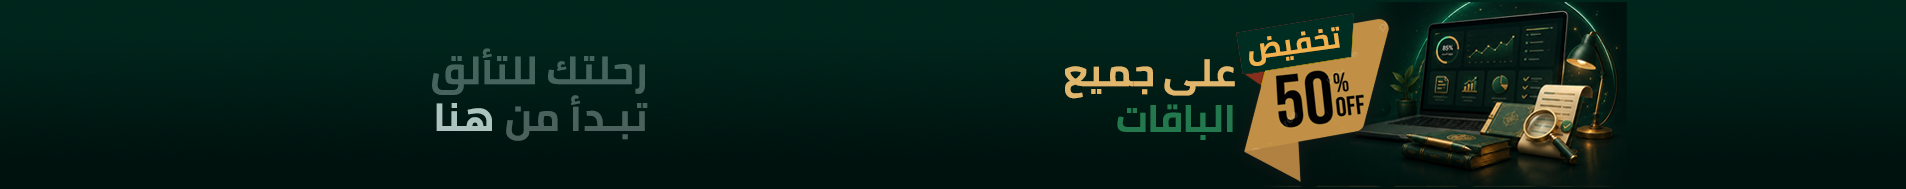
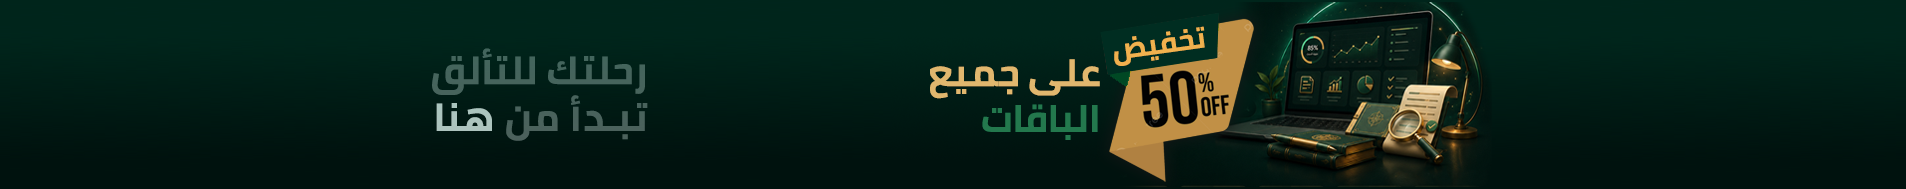
تحديث

Changed region(s): [[0.4643, 0.0, 0.8667, 0.9524], [0.7739, 0.9788, 0.8048, 1.0], [0.6191, 0.9788, 0.6501, 1.0]]

diff --git a/css/style.css b/css/style.css
@@ -40,3 +40,81 @@
 @media(max-width:420px){
   .brand-mark{width:38px!important;height:38px!important;min-width:38px!important}
 }
+
+
+/* Final polish v2026-07-01-banner-logo-search-fast: visible right logo, aligned search, responsive animated banner, faster mobile interaction */
+:root{--banner-h:clamp(82px,9.9vw,189px)}
+.topbar .shell{width:var(--shell)!important;margin-inline:auto!important;overflow:visible!important}
+.brand{padding-inline-start:clamp(8px,1.1vw,16px)!important;overflow:visible!important;max-width:100%!important}
+.brand-mark{
+  margin-inline-start:clamp(6px,1vw,14px)!important;
+  margin-inline-end:0!important;
+  transform:translateX(-6px)!important;
+  overflow:visible!important;
+  background-size:contain!important;
+  background-repeat:no-repeat!important;
+  background-position:center!important;
+}
+.discount-wrap{width:var(--shell)!important;margin:8px auto 8px!important;padding:0!important;contain:layout paint style!important}
+.discount-banner{
+  width:100%!important;
+  height:var(--banner-h)!important;
+  min-height:var(--banner-h)!important;
+  border-radius:18px!important;
+  overflow:hidden!important;
+  display:block!important;
+  background:#002d22!important;
+  box-shadow:0 16px 42px rgba(0,0,0,.26),0 0 0 1px rgba(201,161,91,.24),0 0 42px rgba(47,176,109,.16),inset 0 0 36px rgba(240,217,140,.07)!important;
+  transform:translateZ(0)!important;
+}
+.discount-banner img{
+  width:100%!important;
+  height:100%!important;
+  min-height:100%!important;
+  object-fit:cover!important;
+  object-position:center!important;
+  display:block!important;
+  filter:saturate(1.12) contrast(1.06) brightness(1.035)!important;
+  transform-origin:center!important;
+  animation:finalBannerFloat 7s ease-in-out infinite!important;
+  will-change:transform!important;
+}
+.discount-banner:before{
+  background:radial-gradient(circle at 80% 42%,rgba(72,255,181,.30),transparent 22%),radial-gradient(circle at 62% 50%,rgba(242,212,138,.21),transparent 20%),radial-gradient(circle at 31% 50%,rgba(72,255,181,.105),transparent 25%)!important;
+  opacity:.74!important;
+  animation:finalBannerHalo 5.6s ease-in-out infinite alternate!important;
+  will-change:opacity,transform!important;
+}
+.discount-banner:after{
+  width:30%!important;right:-34%!important;left:auto!important;
+  background:linear-gradient(105deg,transparent 0%,rgba(255,236,170,.08) 28%,rgba(255,236,170,.25) 50%,rgba(62,255,169,.13) 60%,transparent 79%)!important;
+  filter:none!important;opacity:.32!important;
+  animation:finalBannerShine 7.2s ease-in-out infinite!important;
+  will-change:transform,opacity!important;
+}
+.discount-banner .fx-a{height:2px!important;background:linear-gradient(90deg,transparent,rgba(242,212,138,.94),rgba(47,176,109,.66),transparent)!important;animation:finalBannerLine 4.2s ease-in-out infinite alternate!important}
+.discount-banner .fx-b{background:linear-gradient(180deg,rgba(255,255,255,.052),transparent 45%,rgba(0,0,0,.105))!important;animation:finalBannerBreath 5.8s ease-in-out infinite alternate!important}
+.discount-banner .fx-c{position:absolute;inset:0;pointer-events:none;z-index:3;background:radial-gradient(circle at 70% 45%,rgba(240,217,140,.16),transparent 18%),radial-gradient(circle at 85% 35%,rgba(70,255,175,.15),transparent 13%);mix-blend-mode:screen;opacity:.46;animation:finalBannerSpark 5.4s ease-in-out infinite alternate!important;will-change:opacity,transform!important}
+.toolbar.shell{width:var(--shell)!important;margin:8px auto 14px!important;padding:0!important;display:flex!important;align-items:center!important;box-sizing:border-box!important}
+.search{width:100%!important;max-width:100%!important;margin:0!important;display:block!important;box-sizing:border-box!important}
+.modal.open,.assistant-panel.open{animation:fastOpen .12s ease-out both}
+.modal-close,.float-btn,.nav a,.btn{touch-action:manipulation}
+@keyframes finalBannerFloat{0%,100%{transform:scale(1) translate3d(0,0,0)}50%{transform:scale(1.008) translate3d(0,-1px,0)}}
+@keyframes finalBannerHalo{0%{opacity:.56;transform:translate3d(-1.1%,0,0) scale(1)}100%{opacity:.88;transform:translate3d(1.1%,0,0) scale(1.01)}}
+@keyframes finalBannerShine{0%,26%{transform:translate3d(0,0,0);opacity:.04}58%{transform:translate3d(-330%,0,0);opacity:.36}100%{transform:translate3d(-330%,0,0);opacity:.05}}
+@keyframes finalBannerLine{0%{opacity:.44;transform:scaleX(.76)}100%{opacity:.94;transform:scaleX(1)}}
+@keyframes finalBannerBreath{0%{opacity:.46}100%{opacity:.78}}
+@keyframes finalBannerSpark{0%{opacity:.30;transform:translate3d(-.7%,0,0) scale(.996)}100%{opacity:.62;transform:translate3d(.7%,-.35%,0) scale(1.006)}}
+@keyframes fastOpen{from{opacity:.82;transform:translateY(2px)}to{opacity:1;transform:none}}
+@media(max-width:980px){:root{--banner-h:clamp(82px,16.5vw,150px)}.brand-mark{transform:translateX(-8px)!important}.discount-banner img{object-position:center!important}}
+@media(max-width:620px){
+  :root{--shell:min(100% - 20px,1180px);--banner-h:clamp(76px,23vw,118px)}
+  .topbar .shell{padding-inline:0!important}
+  .brand{padding-inline-start:14px!important}
+  .brand-mark{transform:translateX(-10px)!important;margin-inline-start:8px!important}
+  .discount-wrap{margin:7px auto 7px!important}
+  .discount-banner{border-radius:14px!important}
+  .discount-banner img{object-position:58% center!important}
+  .toolbar.shell{margin:7px auto 12px!important}
+}
+@media(max-width:420px){:root{--banner-h:clamp(72px,25vw,104px)}.brand{padding-inline-start:16px!important}.brand-mark{transform:translateX(-12px)!important}.discount-banner img{object-position:62% center!important}}

diff --git a/bots.html b/bots.html
@@ -21,7 +21,7 @@
   <link rel="apple-touch-icon" href="images/whatsapp-thumbnail.png">
   <title>البوتات | بوابة النماذج الذكية</title>
   <link rel="preload" as="image" href="images/discount-80-banner.png">
-  <link rel="stylesheet" href="css/style.css?v=2026-07-01-logo-icon-right">
+  <link rel="stylesheet" href="css/style.css?v=2026-07-01-banner-logo-search-fast">
 </head>
 <body data-page="public-bots">
   <a class="skip-link" href="#app">تجاوز إلى المحتوى</a>
@@ -41,10 +41,10 @@
   <main id="app" tabindex="-1"></main>
   <div id="modal" class="modal" aria-hidden="true"></div>
   <footer class="footer"><div class="shell">بوابة خفيفة ومتجاوبة: الباقات ← التصنيفات ← البوتات.</div></footer>
-  <script>window.__DATA_VERSION__="2026-07-01-logo-icon-right";</script>
-  <script defer src="data/research-dynamic-data.js?v=2026-07-01-logo-icon-right"></script>
-  <script defer src="js/data-service.js?v=2026-07-01-logo-icon-right"></script>
-  <script defer src="js/section-covers-templates-patch-v12.js?v=2026-07-01-logo-icon-right"></script>
-  <script defer src="js/app.js?v=2026-07-01-logo-icon-right"></script>
+  <script>window.__DATA_VERSION__="2026-07-01-banner-logo-search-fast";</script>
+  <script defer src="data/research-dynamic-data.js?v=2026-07-01-banner-logo-search-fast"></script>
+  <script defer src="js/data-service.js?v=2026-07-01-banner-logo-search-fast"></script>
+  <script defer src="js/section-covers-templates-patch-v12.js?v=2026-07-01-banner-logo-search-fast"></script>
+  <script defer src="js/app.js?v=2026-07-01-banner-logo-search-fast"></script>
 </body>
 </html>

diff --git a/index.html b/index.html
@@ -21,7 +21,7 @@
   <link rel="apple-touch-icon" href="images/whatsapp-thumbnail.png">
   <title>بوابة النماذج الذكية</title>
   <link rel="preload" as="image" href="images/discount-80-banner.png">
-  <link rel="stylesheet" href="css/style.css?v=2026-07-01-logo-icon-right">
+  <link rel="stylesheet" href="css/style.css?v=2026-07-01-banner-logo-search-fast">
 </head>
 <body data-page="public-home">
   <a class="skip-link" href="#app">تجاوز إلى المحتوى</a>
@@ -41,10 +41,10 @@
   <main id="app" tabindex="-1"></main>
   <div id="modal" class="modal" aria-hidden="true"></div>
   <footer class="footer"><div class="shell">بوابة خفيفة ومتجاوبة: الباقات ← التصنيفات ← البوتات.</div></footer>
-  <script>window.__DATA_VERSION__="2026-07-01-logo-icon-right";</script>
-  <script defer src="data/research-dynamic-data.js?v=2026-07-01-logo-icon-right"></script>
-  <script defer src="js/data-service.js?v=2026-07-01-logo-icon-right"></script>
-  <script defer src="js/section-covers-templates-patch-v12.js?v=2026-07-01-logo-icon-right"></script>
-  <script defer src="js/app.js?v=2026-07-01-logo-icon-right"></script>
+  <script>window.__DATA_VERSION__="2026-07-01-banner-logo-search-fast";</script>
+  <script defer src="data/research-dynamic-data.js?v=2026-07-01-banner-logo-search-fast"></script>
+  <script defer src="js/data-service.js?v=2026-07-01-banner-logo-search-fast"></script>
+  <script defer src="js/section-covers-templates-patch-v12.js?v=2026-07-01-banner-logo-search-fast"></script>
+  <script defer src="js/app.js?v=2026-07-01-banner-logo-search-fast"></script>
 </body>
 </html>

diff --git a/package.html b/package.html
@@ -21,7 +21,7 @@
   <link rel="apple-touch-icon" href="images/whatsapp-thumbnail.png">
   <title>التصنيفات | بوابة النماذج الذكية</title>
   <link rel="preload" as="image" href="images/discount-80-banner.png">
-  <link rel="stylesheet" href="css/style.css?v=2026-07-01-logo-icon-right">
+  <link rel="stylesheet" href="css/style.css?v=2026-07-01-banner-logo-search-fast">
 </head>
 <body data-page="public-sections">
   <a class="skip-link" href="#app">تجاوز إلى المحتوى</a>
@@ -41,10 +41,10 @@
   <main id="app" tabindex="-1"></main>
   <div id="modal" class="modal" aria-hidden="true"></div>
   <footer class="footer"><div class="shell">بوابة خفيفة ومتجاوبة: الباقات ← التصنيفات ← البوتات.</div></footer>
-  <script>window.__DATA_VERSION__="2026-07-01-logo-icon-right";</script>
-  <script defer src="data/research-dynamic-data.js?v=2026-07-01-logo-icon-right"></script>
-  <script defer src="js/data-service.js?v=2026-07-01-logo-icon-right"></script>
-  <script defer src="js/section-covers-templates-patch-v12.js?v=2026-07-01-logo-icon-right"></script>
-  <script defer src="js/app.js?v=2026-07-01-logo-icon-right"></script>
+  <script>window.__DATA_VERSION__="2026-07-01-banner-logo-search-fast";</script>
+  <script defer src="data/research-dynamic-data.js?v=2026-07-01-banner-logo-search-fast"></script>
+  <script defer src="js/data-service.js?v=2026-07-01-banner-logo-search-fast"></script>
+  <script defer src="js/section-covers-templates-patch-v12.js?v=2026-07-01-banner-logo-search-fast"></script>
+  <script defer src="js/app.js?v=2026-07-01-banner-logo-search-fast"></script>
 </body>
 </html>

diff --git a/js/app.js b/js/app.js
@@ -11,13 +11,14 @@ function cardPackage(p){const c=el('article','card package-card'); c.appendChild
 function cardSection(s,p){const c=el('article','card section-card'); c.appendChild(img(s.image,s.title,true)); const b=el('div','card-body'); b.append(el('h3','',s.title),el('p','',s.description||'')); const footer=el('div','card-footer'); const actions=el('div','card-actions'); actions.appendChild(linkBtn('الدخول للبوتات','bots.html?package='+encodeURIComponent(p.id)+'&section='+encodeURIComponent(s.id),true)); const chips=el('div','stats'); chips.append(chip(((s.bots||[]).length)+' بوتًا')); footer.append(actions,chips); b.appendChild(footer); c.appendChild(b); return c}
 function cardBot(b){const c=el('article','card bot-card'); c.appendChild(img(b.image,b.title,true)); const body=el('div','card-body'); body.append(el('h3','',b.title),el('p','',b.description||'')); const footer=el('div','card-footer'); const actions=el('div','card-actions'); actions.appendChild(linkBtn('الوصف','#',false)); if(b.chatgpt) actions.appendChild(linkBtn('ChatGPT',D.safeUrl(b.chatgpt),true)); if(b.gemini) actions.appendChild(linkBtn('Gemini',D.safeUrl(b.gemini),false)); actions.querySelector('a[href="#"]').addEventListener('click',e=>{e.preventDefault(); modal(b.title,b.description,b.limits,b.example)}); footer.appendChild(actions); body.appendChild(footer); c.appendChild(body); return c}
 function grid(items,renderer){const g=el('section','grid shell'); if(!items.length){g.className='shell'; g.appendChild(el('div','empty','لا توجد عناصر مطابقة.')); return g} items.forEach(x=>g.appendChild(renderer(x))); return g}
-function toolbar(onInput){const t=el('div','toolbar shell'); const input=el('input','search'); input.type='search'; input.placeholder='ابحث هنا...'; input.autocomplete='off'; input.addEventListener('input',()=>onInput(input.value)); t.appendChild(input); return t}
+function toolbar(onInput){const t=el('div','toolbar shell'); const input=el('input','search'); input.type='search'; input.placeholder='ابحث هنا...'; input.autocomplete='off'; let raf=0; input.addEventListener('input',()=>{cancelAnimationFrame(raf); raf=requestAnimationFrame(()=>onInput(input.value));}); t.appendChild(input); return t}
 function filter(items,q,get){q=D.norm(q).toLowerCase(); return !q?items:items.filter(x=>D.norm(get(x)).toLowerCase().includes(q))}
 function modal(title,desc,limits,example){const m=$('#modal'); m.textContent=''; const box=el('div','modal-box'); const mh=el('div','modal-head'); mh.append(el('h2','',title),el('button','modal-close','إغلاق')); box.appendChild(mh); if(desc)box.appendChild(el('p','',desc)); if(limits){box.appendChild(el('h3','','الحدود')); box.appendChild(el('p','',limits))} if(example){box.appendChild(el('h3','','مثال')); box.appendChild(el('p','',example))} mh.querySelector('button').addEventListener('click',()=>m.classList.remove('open')); m.appendChild(box); m.classList.add('open')}
 function pageHome(app){app.append(banner(),head('الباقات','اختر الباقة المطلوبة، ثم ادخل إلى تصنيفاتها، وبعدها اختر التصنيف للوصول إلى البوتات التابعة له.')); let items=D.packages(); const holder=el('div'); const render=q=>{holder.textContent=''; holder.appendChild(grid(filter(items,q,p=>p.title+' '+p.description),cardPackage))}; app.append(toolbar(render),holder); render('')}
 function pageSections(app){const p=D.findPackage(); app.append(banner(),head('التصنيفات',p?'اختر التصنيف المناسب من '+p.title+' للوصول إلى البوتات التابعة له.':'اختر التصنيف للوصول إلى البوتات التابعة له.')); let items=p?(p.sections||[]):[]; const holder=el('div'); const render=q=>{holder.textContent=''; holder.appendChild(grid(filter(items,q,s=>s.title+' '+s.description),s=>cardSection(s,p)))}; app.append(toolbar(render),holder); render('')}
 function pageBots(app){const found=D.findSection(); const sec=found&&found.section; app.append(banner(),head('البوتات',sec?'البوتات التابعة لتصنيف: '+sec.title:'اختر البوت المناسب وافتح وصفه أو رابط تشغيله.')); let items=sec?(sec.bots||[]):D.botItems().map(x=>x.bot); const holder=el('div'); const render=q=>{holder.textContent=''; holder.appendChild(grid(filter(items,q,b=>b.title+' '+b.description),cardBot))}; app.append(toolbar(render),holder); render('')}
 function floating(){if($('.float-stack'))return; const stack=el('div','float-stack'); const ai=el('button','float-btn secondary','المساعد الذكي'); ai.type='button'; const wa=el('a','float-btn','الدعم المباشر'); wa.href='https://wa.me/966552191598'; wa.target='_blank'; wa.rel='noopener noreferrer'; stack.append(ai,wa); document.body.appendChild(stack); const panel=el('section','assistant-panel'); const close=el('button','modal-close','×'); const title=el('h3','','المساعد الذكي'); const p=el('p','','اكتب اسم البوت أو التصنيف للبحث السريع داخل البوابة.'); const input=el('input'); input.type='search'; input.placeholder='مثال: خطة البحث، الترجمة، التحليل'; const res=el('div','assistant-results'); panel.append(close,title,p,input,res); document.body.appendChild(panel); function run(q){res.textContent=''; const arr=D.botItems().filter(x=>D.norm(x.bot.title+' '+x.bot.description+' '+x.section.title).includes(D.norm(q))).slice(0,6); if(!q){res.appendChild(el('div','assistant-card','ابدأ بكتابة كلمة للبحث.')); return} arr.forEach(x=>{const c=el('div','assistant-card'); c.append(el('b','',x.bot.title),el('span','',x.section.title)); if(x.bot.chatgpt)c.appendChild(linkBtn('فتح ChatGPT',D.safeUrl(x.bot.chatgpt),false)); res.appendChild(c)}); if(q&&!arr.length)res.appendChild(el('div','assistant-card','لا توجد نتيجة مطابقة.'))} ai.addEventListener('click',()=>{panel.classList.toggle('open'); if(panel.classList.contains('open')){input.focus(); run(input.value)}}); close.addEventListener('click',()=>panel.classList.remove('open')); input.addEventListener('input',()=>run(input.value))}
-function boot(){const app=$('#app'); if(!app)return; app.textContent=''; const page=document.body.dataset.page; if(page==='public-sections')pageSections(app); else if(page==='public-bots')pageBots(app); else pageHome(app); floating(); const modalEl=$('#modal'); if(modalEl)modalEl.addEventListener('click',e=>{if(e.target===modalEl)modalEl.classList.remove('open')});}
+function bindGlobalClose(){document.addEventListener('keydown',e=>{if(e.key==='Escape'){const m=$('#modal'); if(m)m.classList.remove('open'); const p=$('.assistant-panel'); if(p)p.classList.remove('open')}})}
+function boot(){const app=$('#app'); if(!app)return; app.textContent=''; const page=document.body.dataset.page; if(page==='public-sections')pageSections(app); else if(page==='public-bots')pageBots(app); else pageHome(app); floating(); bindGlobalClose(); const modalEl=$('#modal'); if(modalEl)modalEl.addEventListener('click',e=>{if(e.target===modalEl)modalEl.classList.remove('open')});}
 if(document.readyState==='loading')document.addEventListener('DOMContentLoaded',boot,{once:true}); else boot();
 })();

diff --git a/admin.html b/admin.html
@@ -10,4 +10,4 @@
   <meta name="twitter:description" content="واجهة عامة للباقات والتصنيفات والبوتات">
   <meta name="twitter:image" content="images/whatsapp-thumbnail.png">
   <link rel="icon" type="image/png" href="images/logo-transparent.png">
-  <link rel="apple-touch-icon" href="images/whatsapp-thumbnail.png"><title>لوحة التحكم | بوابة النماذج الذكية</title><link rel="stylesheet" href="css/style.css?v=2026-07-01-logo-icon-right"></head><body data-page="admin"><header class="topbar"><div class="shell"><a class="brand" href="index.html"><span class="brand-mark"></span><span class="brand-titleline"><h1>لوحة التحكم</h1><p>إدارة الباقات والتصنيفات والبوتات</p></span></a><nav class="nav"><a href="index.html">عرض الواجهة</a><button class="btn" onclick="downloadJSON(window.RESEARCH_DATA)">تصدير JSON</button><button class="btn" onclick="downloadJS(window.RESEARCH_DATA)">تصدير JS</button></nav></div></header><main class="shell page-head"><section class="inline-heading"><h2>لوحة التحكم</h2><span class="sep">|</span><p>فحص سريع للبيانات وتصدير آمن للنسخ الحالية.</p></section><div id="adminControl"></div><section id="editor"></section></main><footer class="footer"><div class="shell">للحفظ الدائم استبدل ملفات البيانات ثم ارفع المشروع كاملًا.</div></footer><script defer src="data/research-dynamic-data.js?v=2026-07-01-logo-icon-right"></script><script defer src="js/data-service.js?v=2026-07-01-logo-icon-right"></script><script defer src="js/admin.js?v=2026-07-01-logo-icon-right"></script></body></html>
+  <link rel="apple-touch-icon" href="images/whatsapp-thumbnail.png"><title>لوحة التحكم | بوابة النماذج الذكية</title><link rel="stylesheet" href="css/style.css?v=2026-07-01-banner-logo-search-fast"></head><body data-page="admin"><header class="topbar"><div class="shell"><a class="brand" href="index.html"><span class="brand-mark"></span><span class="brand-titleline"><h1>لوحة التحكم</h1><p>إدارة الباقات والتصنيفات والبوتات</p></span></a><nav class="nav"><a href="index.html">عرض الواجهة</a><button class="btn" onclick="downloadJSON(window.RESEARCH_DATA)">تصدير JSON</button><button class="btn" onclick="downloadJS(window.RESEARCH_DATA)">تصدير JS</button></nav></div></header><main class="shell page-head"><section class="inline-heading"><h2>لوحة التحكم</h2><span class="sep">|</span><p>فحص سريع للبيانات وتصدير آمن للنسخ الحالية.</p></section><div id="adminControl"></div><section id="editor"></section></main><footer class="footer"><div class="shell">للحفظ الدائم استبدل ملفات البيانات ثم ارفع المشروع كاملًا.</div></footer><script defer src="data/research-dynamic-data.js?v=2026-07-01-banner-logo-search-fast"></script><script defer src="js/data-service.js?v=2026-07-01-banner-logo-search-fast"></script><script defer src="js/admin.js?v=2026-07-01-banner-logo-search-fast"></script></body></html>

diff --git a/site-audit-banner-logo-search-fast.md b/site-audit-banner-logo-search-fast.md
@@ -1,0 +1,18 @@
+# تقرير ضبط البانر والشعار ومحاذاة البحث — 2026-07-01-banner-logo-search-fast
+
+## نطاق العمل
+- اعتماد البانر المرفق بوصفه الصورة الحالية داخل `images/discount-80-banner.png`.
+- تحريك الشعار في الترويسة قليلًا جهة اليسار حتى لا يلتصق بحافة الشاشة اليمنى أو يختفي جزء منه.
+- إعادة ضبط مربع البحث `ابحث هنا...` ليأخذ عرض الحاوية نفسها ولا يخرج عن محاذاة بقية الاسكتشات.
+- تثبيت المؤثرات على البانر: حركة خفيفة، لمعان عابر، هالات خضراء/ذهبية، وخط إضاءة سفلي.
+- تحسين الإقلاع على الجوال عبر تثبيت أبعاد البانر، ضغط الصورة، تقليل الاعتماد على خصائص ثقيلة، وتخفيف تكرار تحديث البحث.
+
+## فحص الفجوات
+- لا توجد روابط خارجية غير آمنة داخل أزرار التشغيل؛ الروابط الخارجية تمر عبر `safeUrl` وتفتح بـ `noopener noreferrer`.
+- تم ضبط `CSP` في الصفحات الأساسية.
+- الصور المفقودة لا تكسر التخطيط؛ يتم التعامل معها داخل `app.js`.
+- مربع البحث أصبح داخل `toolbar shell` بعرض مضبوط ومتسق.
+- إغلاق النوافذ يتم بزر الإغلاق، الضغط خارج النافذة، وزر `Escape`.
+
+## ملاحظة تشغيلية
+للحصول على أفضل نتيجة في GitHub Pages، ارفع المجلدات كاملة: `css`, `js`, `data`, `images` مع ملفات HTML الأربعة.